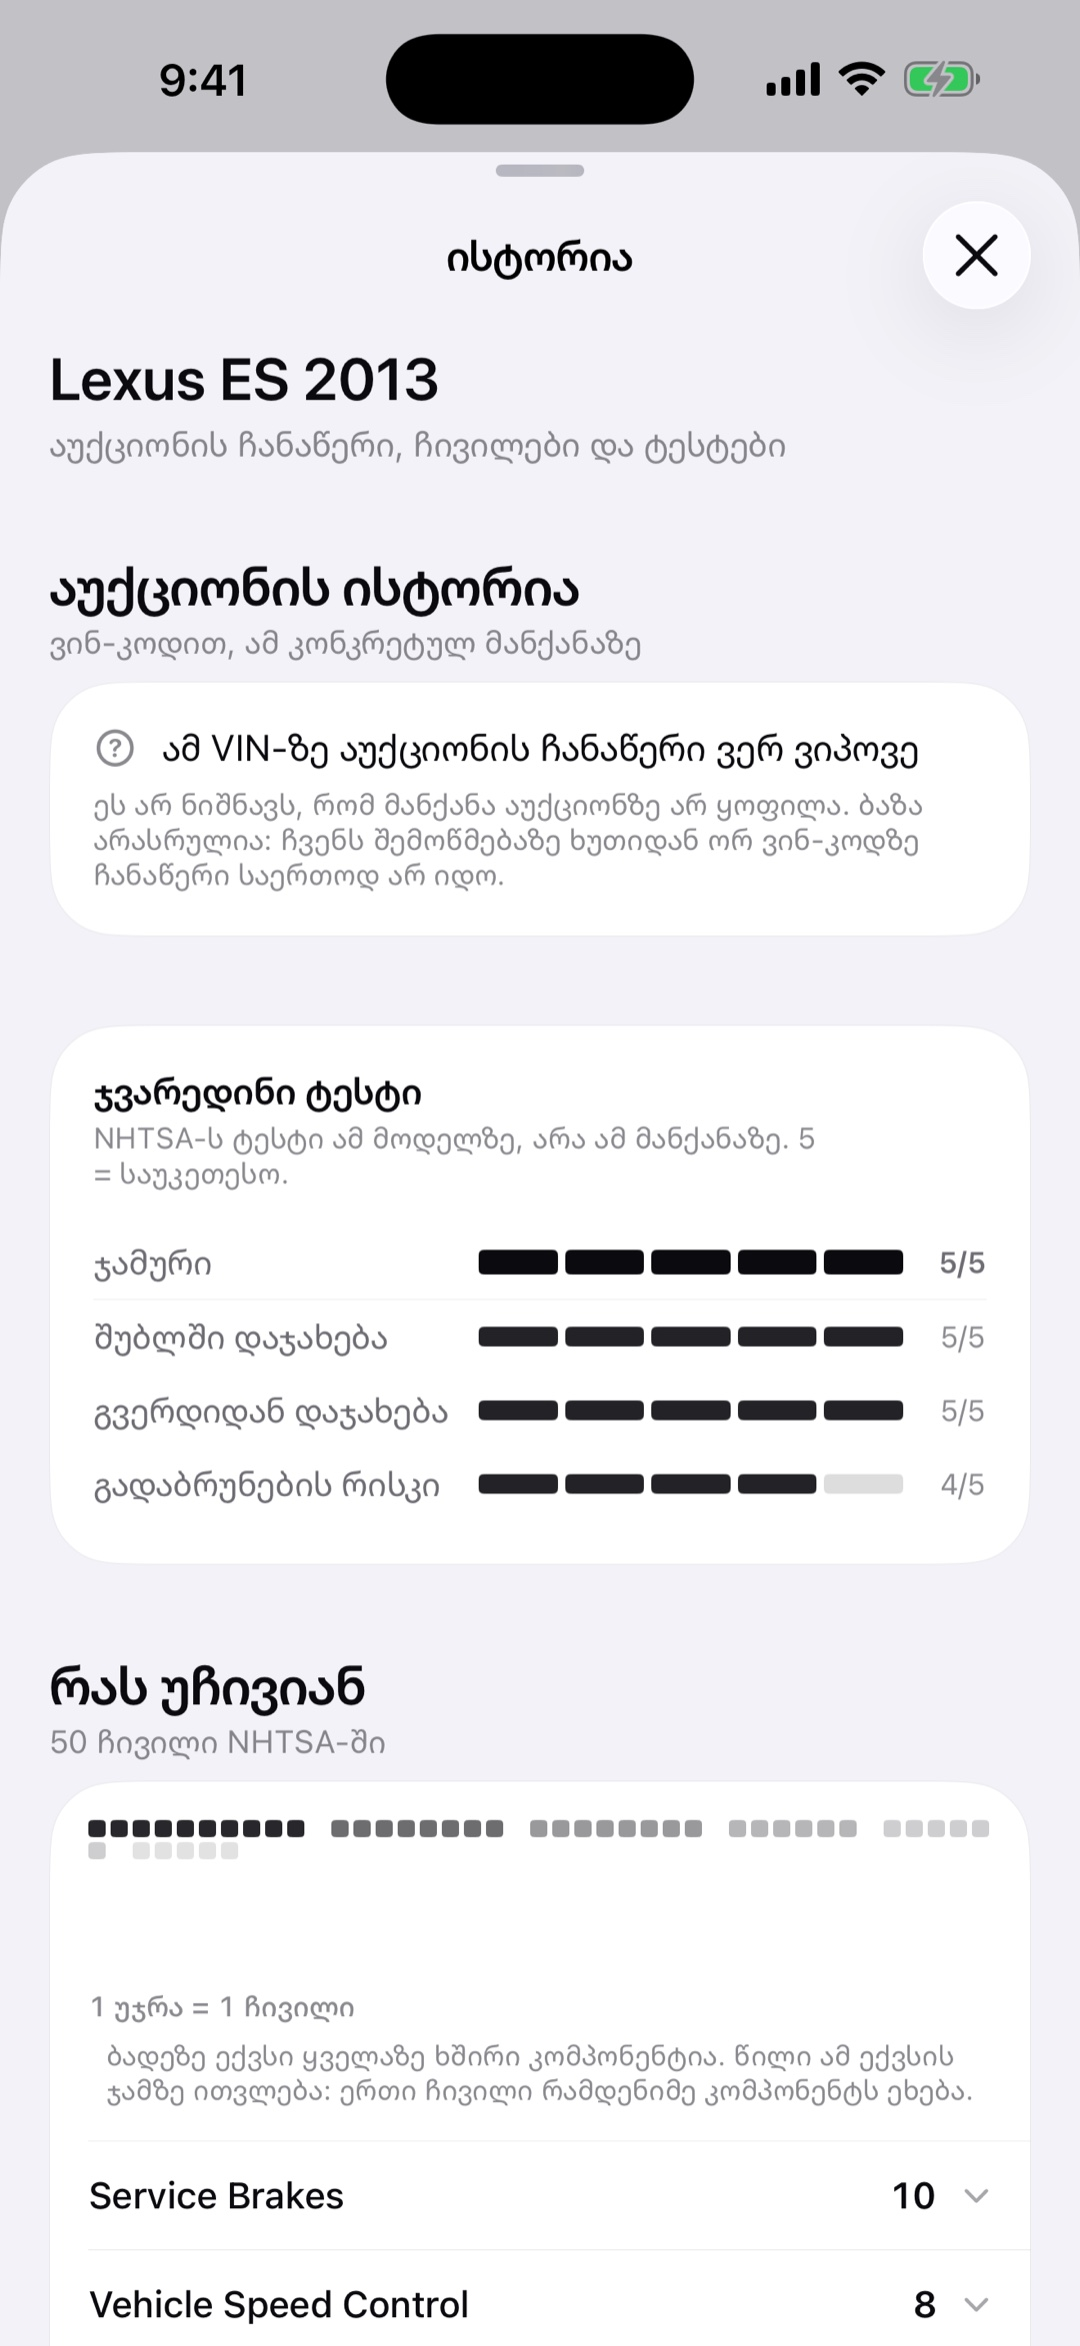
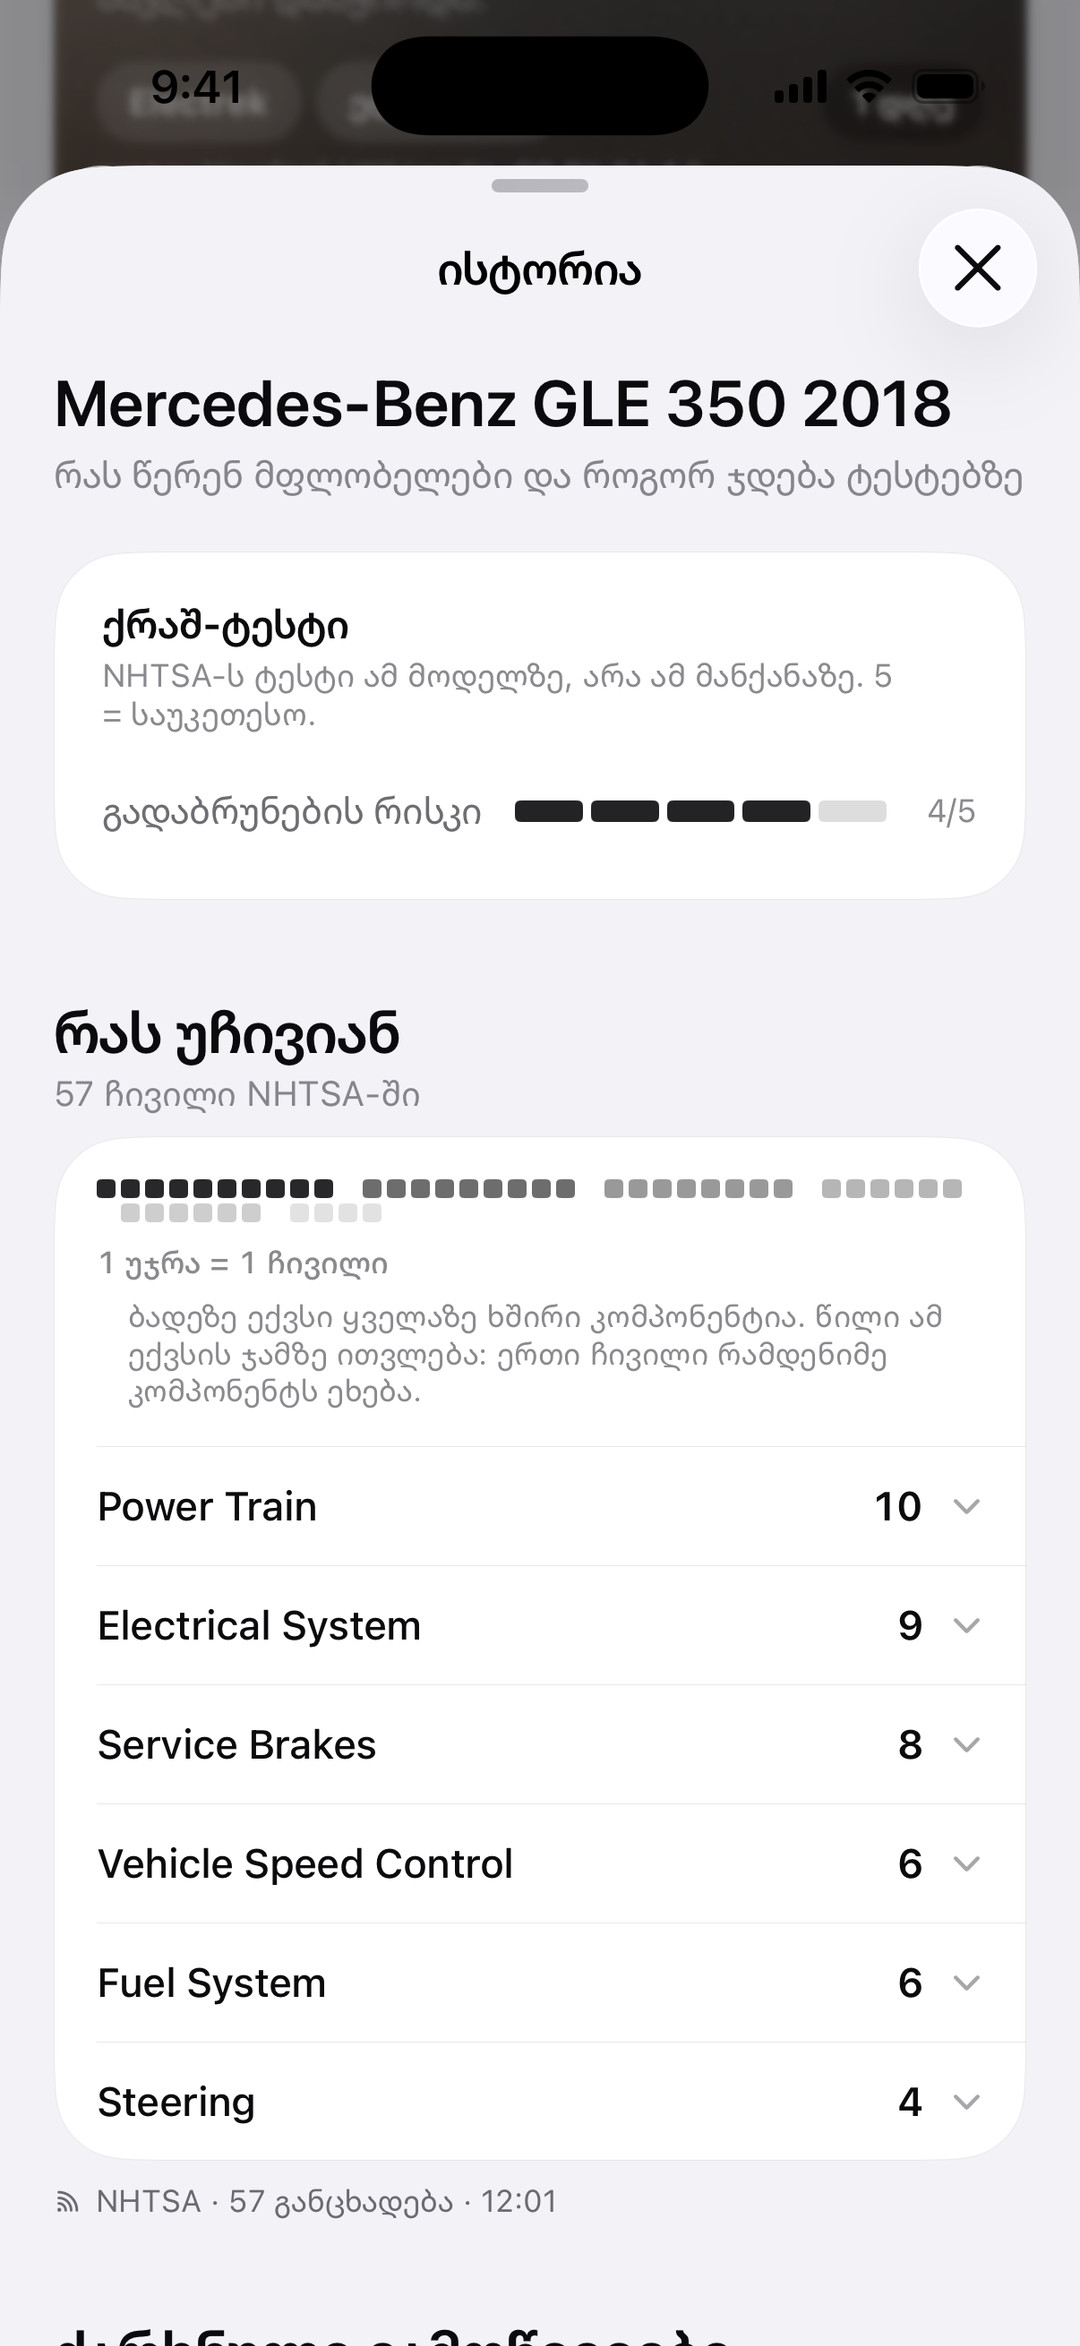
Auction-record films retired; history capture retaken; the parking map staged for the next app version
- specs/_retired: v6, v7, v29, v50, v81, v121, v130 promised an auction damage record by VIN, which left the app on 2026-11-11
- 09-history retaken from the next build (model history only: crash test, complaints), out of marketGone, listed for vin from 1.0.8
- parking: three new captures (70-parking-here, 68-parking-map, 69-parking-walk) and the facts of the map screen
  (route on the streets, the next turn, three free saves) in an "after": "1.0.8" block, so the studio switches by itself when the store does

diff --git a/CLAUDE.md b/CLAUDE.md
@@ -59,6 +59,8 @@ a synthesised sound kit (tools/asmr.mjs), CC0 Kenney models, OFL fonts.
    refuses the words too. The old price, chart and wallet films, and the ones that sold „today's price, free", are history
    in specs/_retired (no tool renders or redoes them): v2, v9 (and its hook), v11, v13, v16, v17, v19, v23, v25, v32, v41,
    v43, v49, v55, v56, v63, v68, v74, v132 (from _later), demo-scenes-a and -b, the slide set s6-home-widgets.
+   Since 2026-11-12 the films that promised an auction damage record by VIN („რა დაზიანდა და როდის“, „აუქციონის
+   ჩანაწერს ნახავ“) are there too, for the same reason: v6, v7, v29, v50, v81, v121, v130.
    And still **never "myauto"** (myauto.ge, MYAUTO, მაიავტო) in any text or voice: build-index stops on it.
 6. **App screens clearly visible**: large (the talked-about element pushed in), bright, readable at
    phone size, never a dimmed grey slab. Highlight with the band, do not grey out the whole screen.
